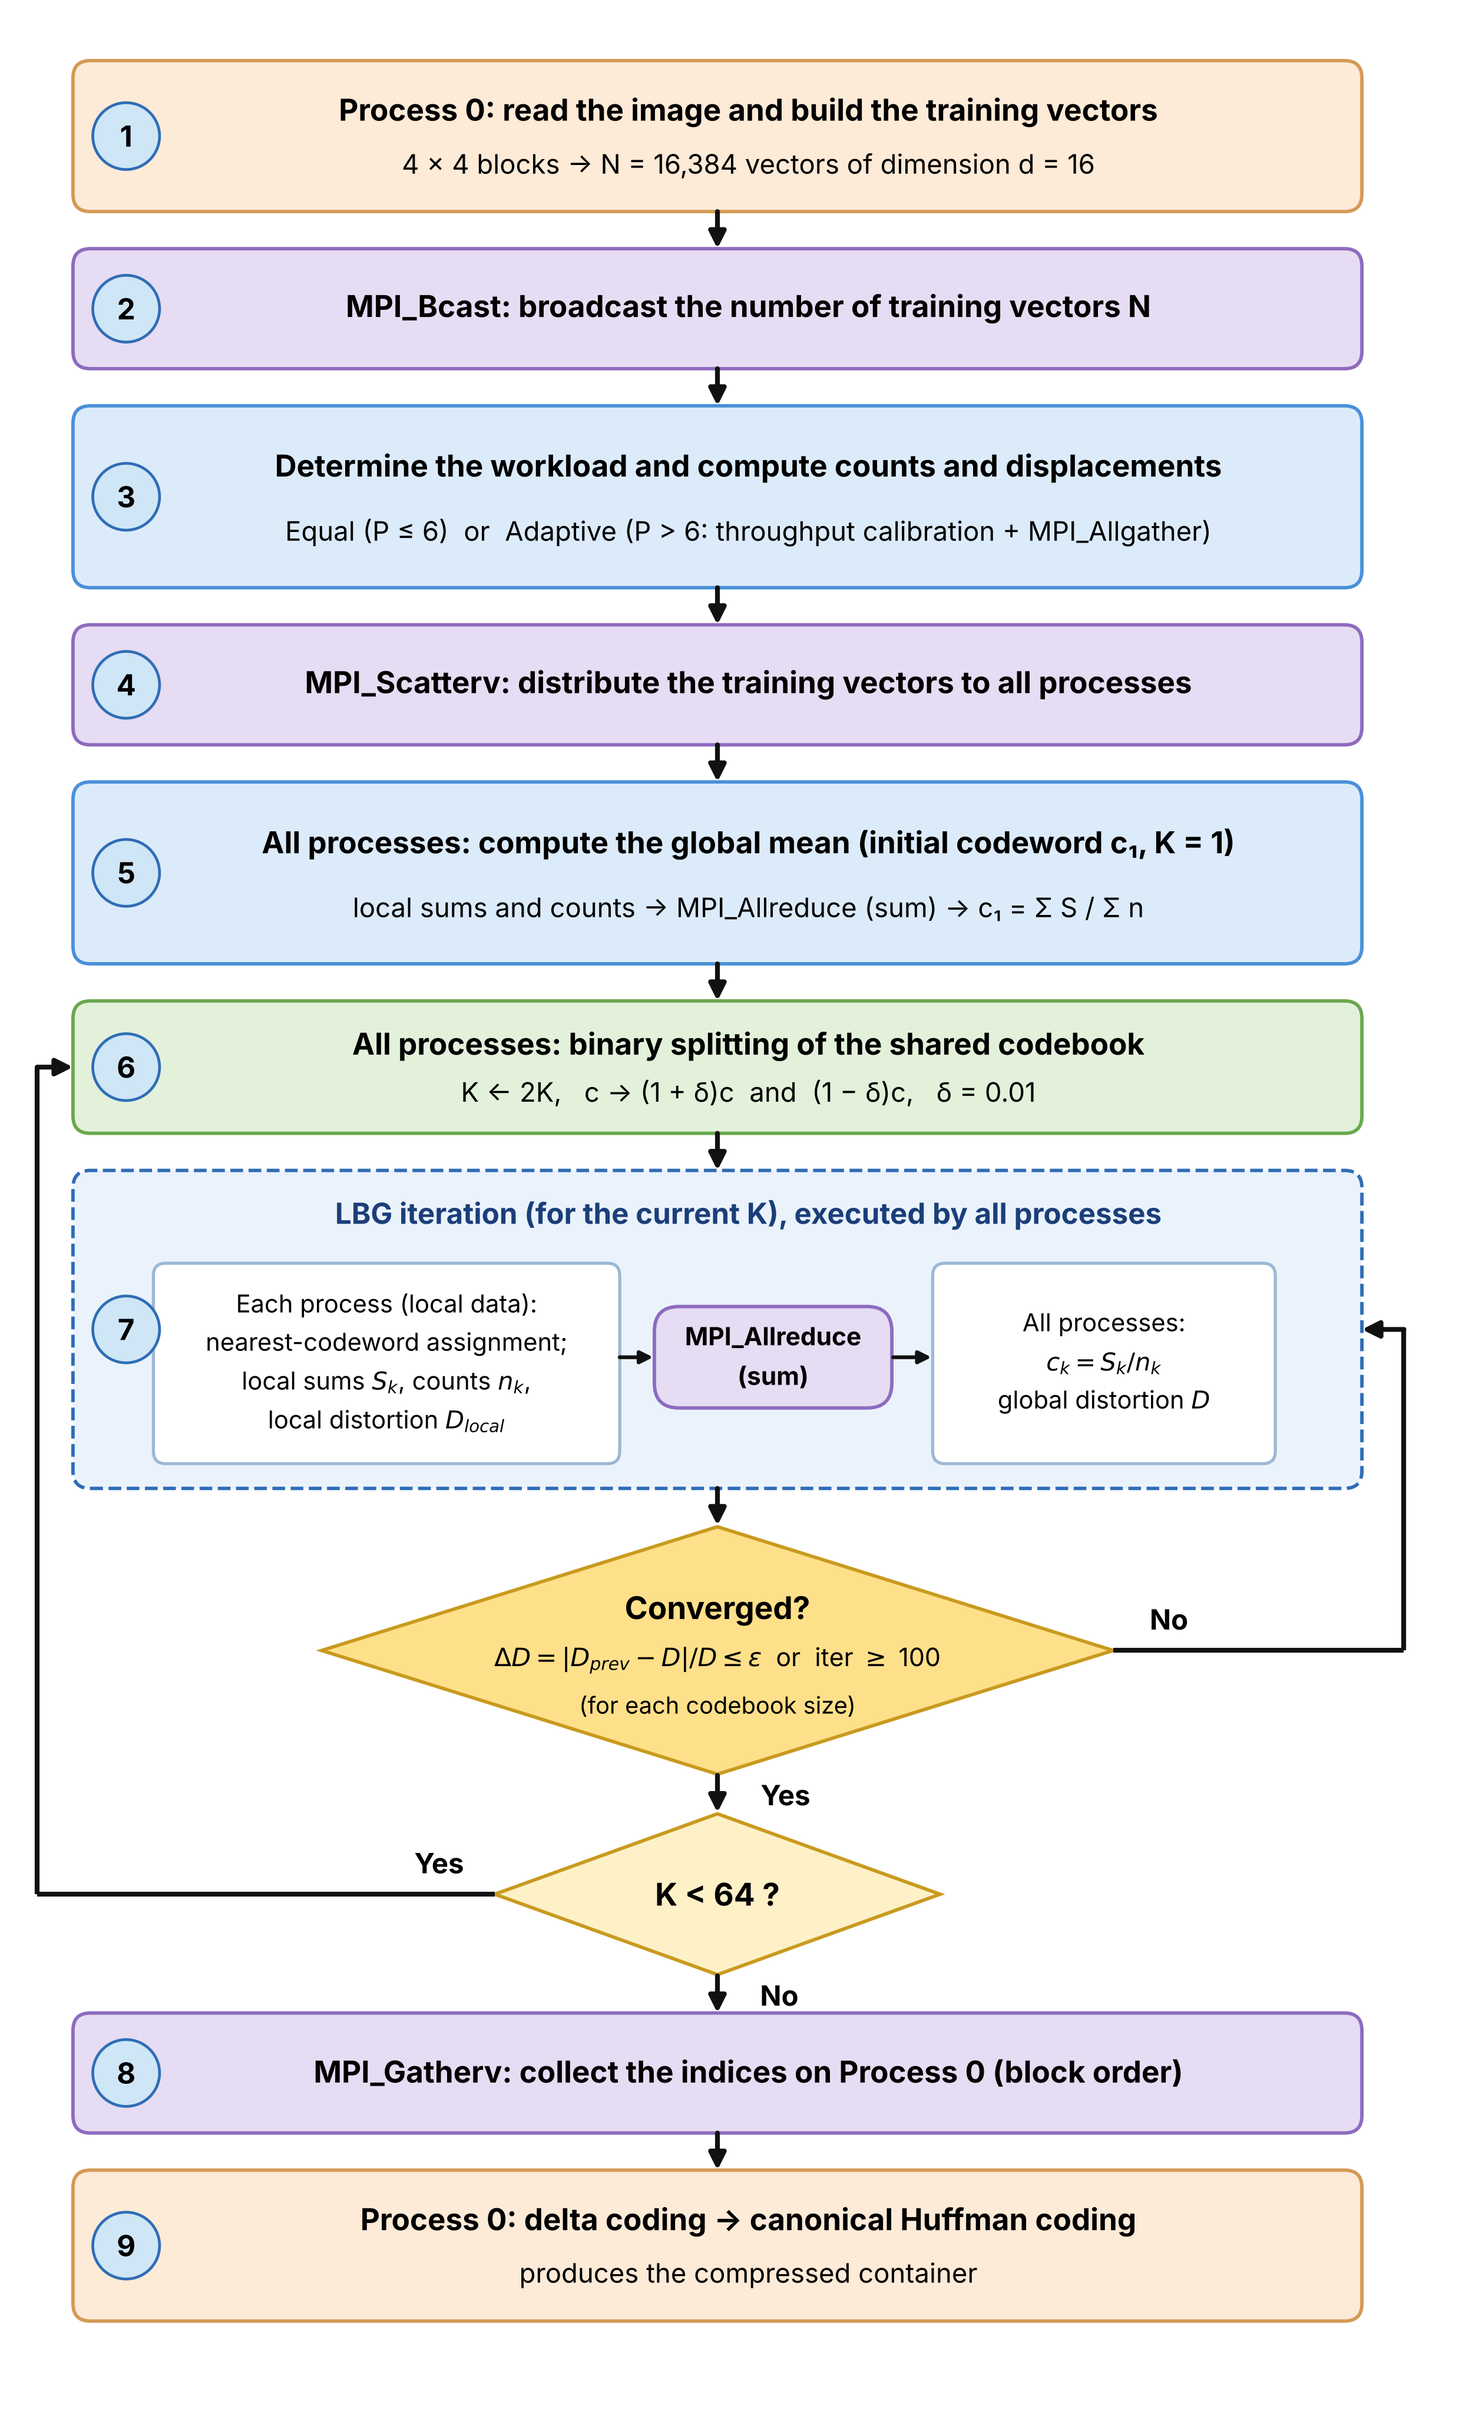
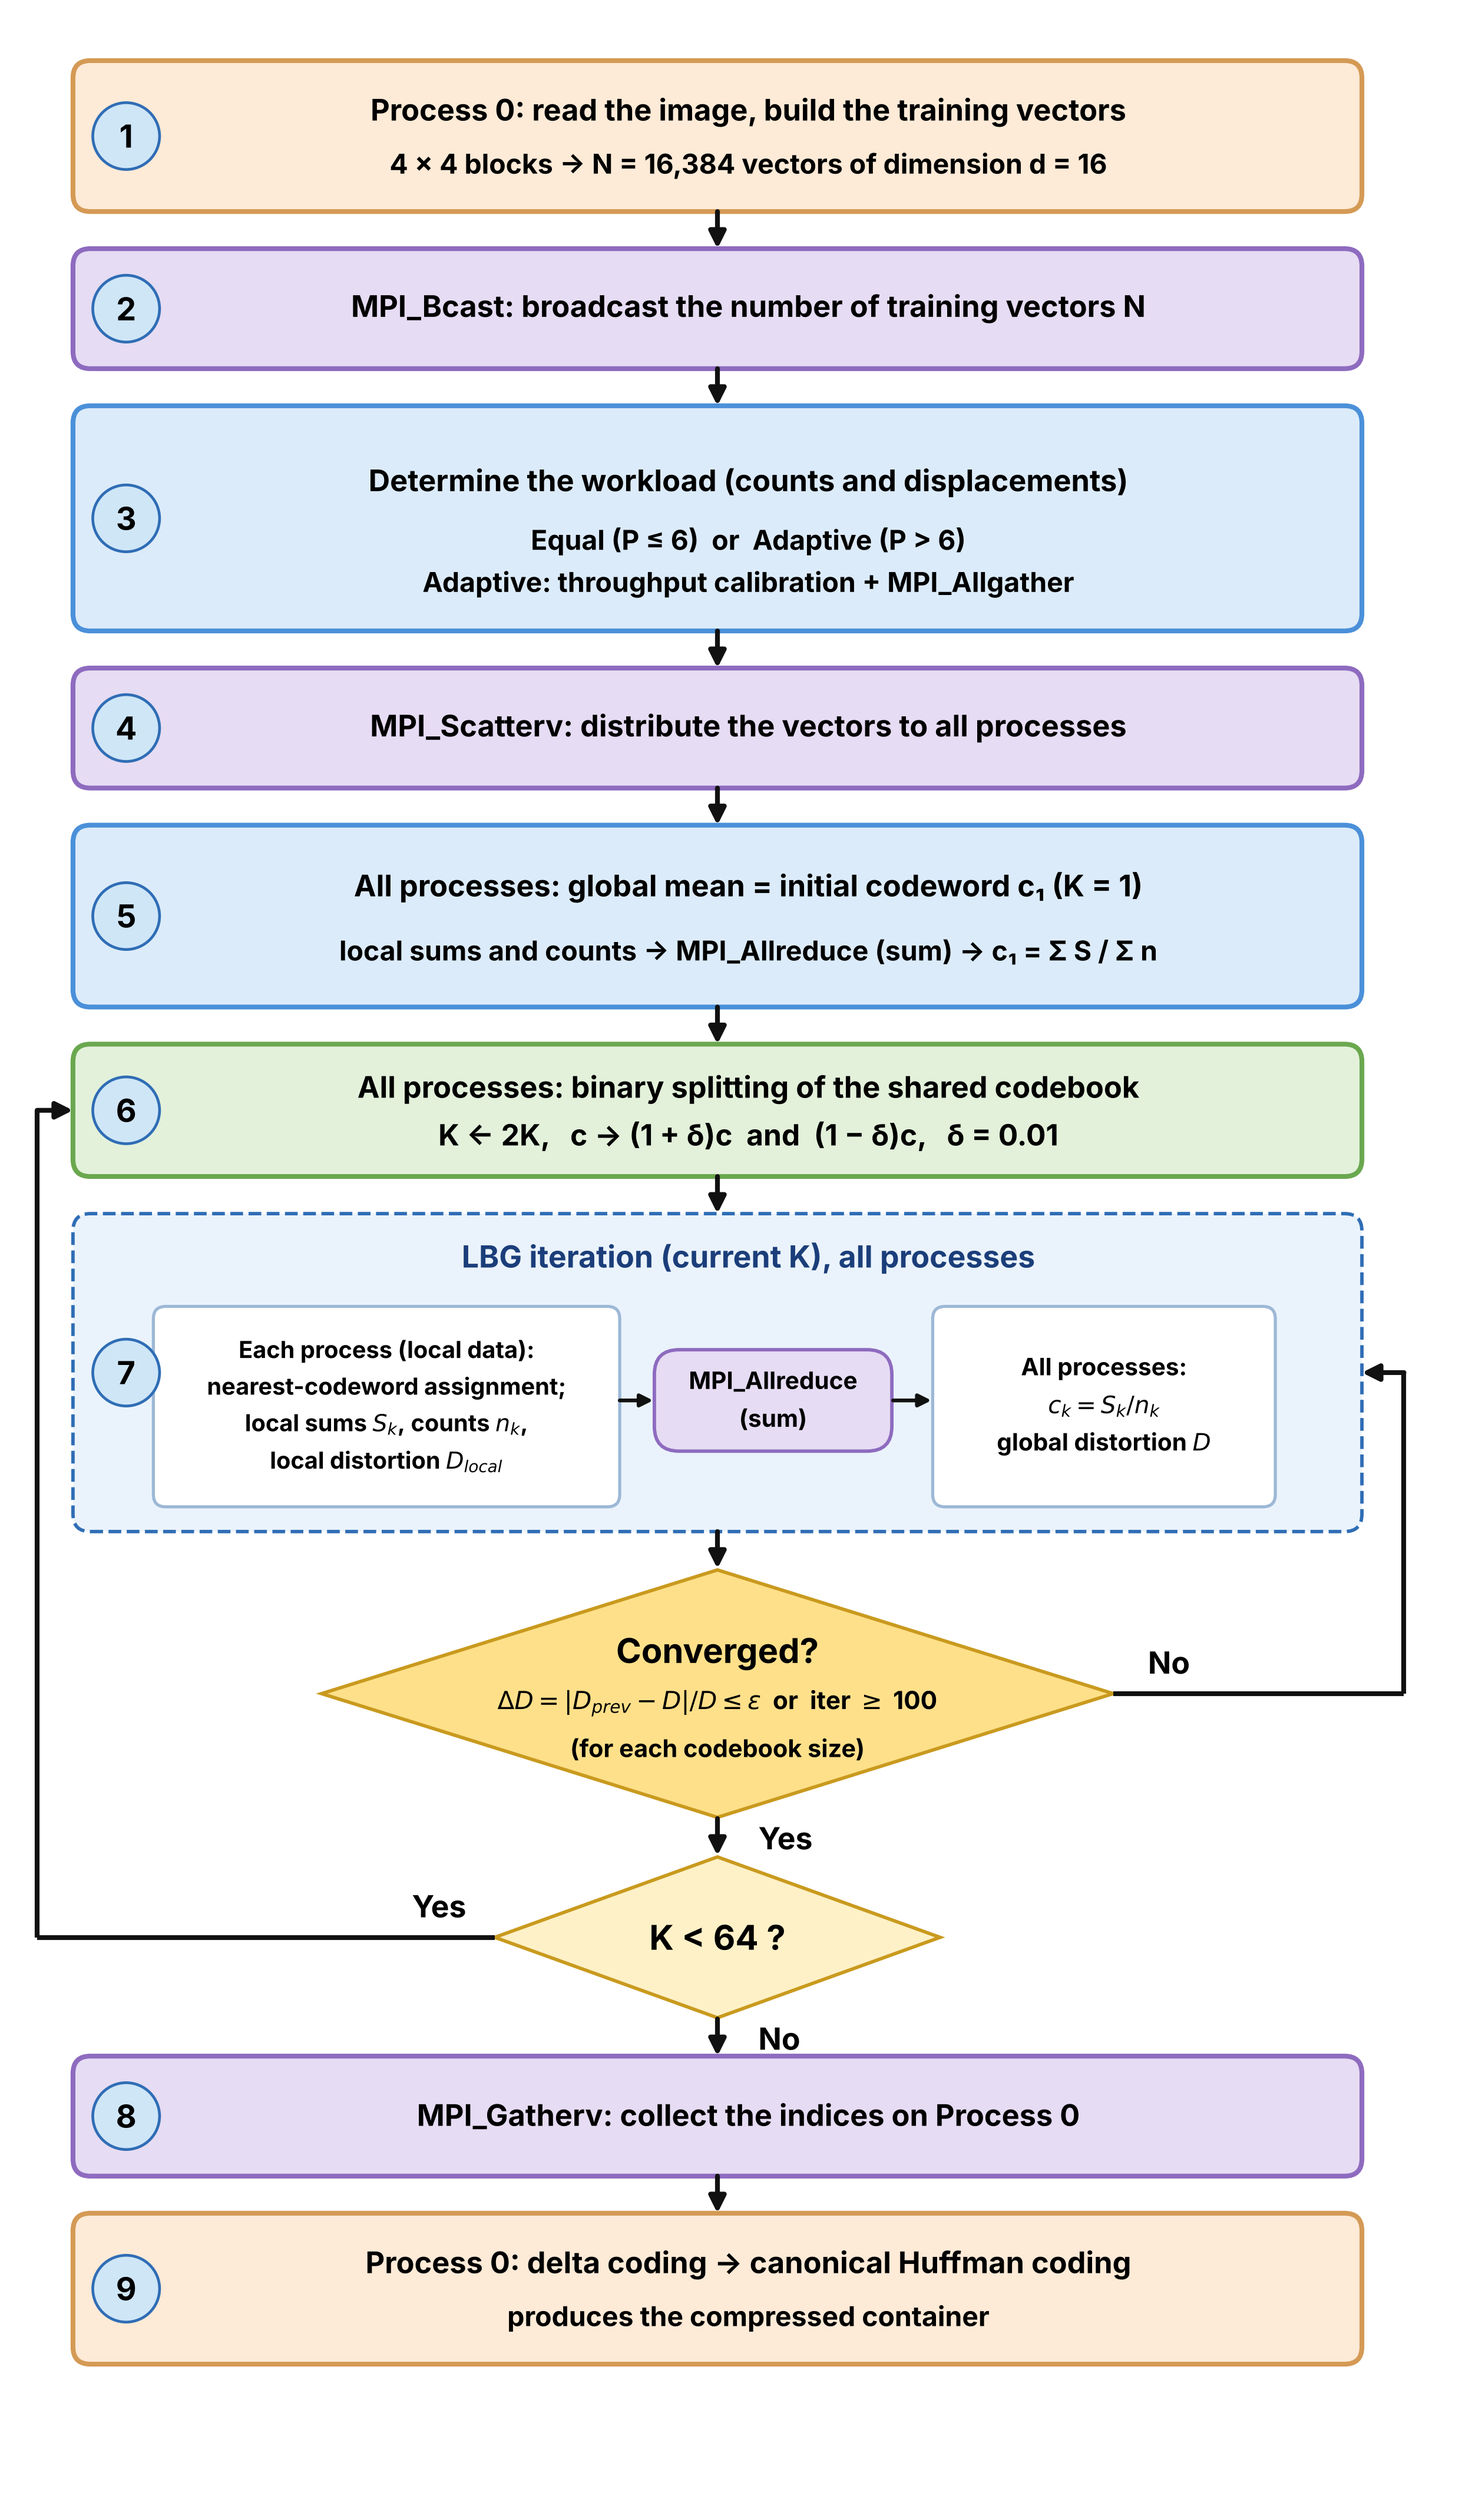
Parallel LBG workflow figure: bold text, larger sizes, thicker borders
Claude-Session: https://claude.ai/code/session_01T6gEewJ8YaCdmnsfS34RJd

diff --git a/stages/make_fig_parallel_lbg.py b/stages/make_fig_parallel_lbg.py
@@ -5,16 +5,16 @@ matplotlib.use('Agg')
 import matplotlib.pyplot as plt
 from matplotlib.patches import FancyBboxPatch, Polygon, Circle
 
-W, H = 11.9, 19.6
+W, H = 11.9, 20.2
 fig = plt.figure(figsize=(W, H)); ax = fig.add_axes([0, 0, 1, 1]); ax.set_xlim(0, W); ax.set_ylim(0, H); ax.axis('off')
 NAVY = '#14264A'
 PEACH = ('#FDEAD7', '#D49A55'); BLUE = ('#DCEBFA', '#4A90D9'); PURPLE = ('#E6DCF3', '#8E6BBF'); GREEN = ('#E3F1DB', '#6AA84F'); WHITE = ('#FFFFFF', '#9DB8D6')
 X0, X1 = 0.6, 11.0; CX = (X0 + X1) / 2
 
-def rbox(x, y, w, h, col, lw=2.0, r=0.14, ls='-', z=1):
+def rbox(x, y, w, h, col, lw=2.8, r=0.14, ls='-', z=1):
     ax.add_patch(FancyBboxPatch((x, y), w, h, boxstyle=f'round,pad=0.01,rounding_size={r}', fc=col[0], ec=col[1], lw=lw, ls=ls, zorder=z))
 def T(x, y, s, fs=13, bold=False, color='#111111', ha='center', z=6):
-    ax.text(x, y, s, fontsize=fs*1.3, fontweight='bold' if bold else 'normal', color=('#000000' if color == '#111111' else color), ha=ha, va='center', zorder=z, linespacing=1.3)
+    ax.text(x, y, s, fontsize=fs*1.42, fontweight='bold', color=('#000000' if color == '#111111' else color), ha=ha, va='center', zorder=z, linespacing=1.3)
 def arrow(x1, y1, x2, y2, lw=2.8, ms=20):
     ax.annotate('', xy=(x2, y2), xytext=(x1, y1), arrowprops=dict(arrowstyle='-|>', lw=lw, color='#111111', mutation_scale=ms, shrinkA=0, shrinkB=0), zorder=7)
 def line(xs, ys, lw=2.8):
@@ -23,8 +23,8 @@ def badge(n, y):
     ax.add_patch(Circle((X0 + 0.42, y), 0.27, fc='#CFE6F7', ec='#2F6DB5', lw=1.6, zorder=8)); T(X0 + 0.42, y, str(n), fs=13, bold=True, z=10)
 
 GAP = 0.32
-cur = 19.1
-def step(h, col, title, sub=None, n=None, tfs=13.5, sfs=12):
+cur = 19.7
+def step(h, col, title, sub=None, n=None, tfs=12.2, sfs=11.2):
     global cur
     y = cur - h
     rbox(X0, y, X1 - X0, h, col)
@@ -37,35 +37,35 @@ def step(h, col, title, sub=None, n=None, tfs=13.5, sfs=12):
     return y, h
 
 boxes = []
-boxes.append(step(1.2, PEACH, 'Process 0: read the image and build the training vectors', '4 × 4 blocks → N = 16,384 vectors of dimension d = 16', 1))
+boxes.append(step(1.2, PEACH, 'Process 0: read the image, build the training vectors', '4 × 4 blocks → N = 16,384 vectors of dimension d = 16', 1))
 boxes.append(step(0.95, PURPLE, 'MPI_Bcast: broadcast the number of training vectors N', None, 2))
-boxes.append(step(1.45, BLUE, 'Determine the workload and compute counts and displacements', 'Equal (P ≤ 6)  or  Adaptive (P > 6: throughput calibration + MPI_Allgather)', 3))
-boxes.append(step(0.95, PURPLE, 'MPI_Scatterv: distribute the training vectors to all processes', None, 4))
-boxes.append(step(1.45, BLUE, 'All processes: compute the global mean (initial codeword c₁, K = 1)', 'local sums and counts → MPI_Allreduce (sum) → c₁ = Σ S / Σ n', 5))
+boxes.append(step(1.8, BLUE, 'Determine the workload (counts and displacements)', 'Equal (P ≤ 6)  or  Adaptive (P > 6)\nAdaptive: throughput calibration + MPI_Allgather', 3))
+boxes.append(step(0.95, PURPLE, 'MPI_Scatterv: distribute the vectors to all processes', None, 4))
+boxes.append(step(1.45, BLUE, 'All processes: global mean = initial codeword c₁ (K = 1)', 'local sums and counts → MPI_Allreduce (sum) → c₁ = Σ S / Σ n', 5))
 y6, h6 = step(1.05, GREEN, 'All processes: binary splitting of the shared codebook', 'K ← 2K,   c → (1 + δ)c  and  (1 − δ)c,   δ = 0.01', 6, sfs=12)
 # loop box
 LH = 2.55; yl = cur - LH
 rbox(X0, yl, X1 - X0, LH, ('#EAF3FC', '#2F6DB5'), lw=2.0, ls='--')
 badge(7, yl + LH / 2)
-T(CX + 0.25, yl + LH - 0.35, 'LBG iteration (for the current K), executed by all processes', fs=13.0, bold=True, color='#1B3E7A')
+T(CX + 0.25, yl + LH - 0.35, 'LBG iteration (current K), all processes', fs=12.5, bold=True, color='#1B3E7A')
 rbox(1.25, yl + 0.2, 3.75, 1.6, WHITE, lw=1.8, r=0.1)
-T(3.125, yl + 1.0, 'Each process (local data):\nnearest-codeword assignment;\nlocal sums $S_k$, counts $n_k$,\nlocal distortion $D_{local}$', fs=11.0)
-rbox(5.3, yl + 0.65, 1.9, 0.8, PURPLE, lw=2.0, r=0.2); T(6.25, yl + 1.05, 'MPI_Allreduce\n(sum)', fs=11.2, bold=True)
+T(3.125, yl + 1.0, 'Each process (local data):\nnearest-codeword assignment;\nlocal sums $S_k$, counts $n_k$,\nlocal distortion $D_{local}$', fs=9.6)
+rbox(5.3, yl + 0.65, 1.9, 0.8, PURPLE, lw=2.0, r=0.2); T(6.25, yl + 1.05, 'MPI_Allreduce\n(sum)', fs=9.8, bold=True)
 rbox(7.55, yl + 0.2, 2.75, 1.6, WHITE, lw=1.8, r=0.1)
-T(8.925, yl + 1.0, 'All processes:\n$c_k = S_k / n_k$\nglobal distortion $D$', fs=11.0)
+T(8.925, yl + 1.0, 'All processes:\n$c_k = S_k / n_k$\nglobal distortion $D$', fs=9.8)
 arrow(5.01, yl + 1.05, 5.28, yl + 1.05, lw=2.2, ms=15); arrow(7.22, yl + 1.05, 7.53, yl + 1.05, lw=2.2, ms=15)
 cur = yl - GAP
 # convergence diamond
 dh1 = 2.0; dw1 = 6.4; yd1 = cur - dh1; yc1 = yd1 + dh1 / 2
 ax.add_patch(Polygon([(CX, yd1 + dh1), (CX + dw1/2, yc1), (CX, yd1), (CX - dw1/2, yc1)], closed=True, fc='#FFE08A', ec='#C99A1E', lw=2.0, zorder=2))
-T(CX, yc1 + 0.32, 'Converged?', fs=14, bold=True); T(CX, yc1 - 0.08, r'$\Delta D = |D_{prev} - D| / D \leq \varepsilon$  or  iter $\geq$ 100', fs=11.3)
-T(CX, yc1 - 0.45, '(for each codebook size)', fs=10.5)
+T(CX, yc1 + 0.32, 'Converged?', fs=14, bold=True); T(CX, yc1 - 0.08, r'$\Delta D = |D_{prev} - D| / D \leq \varepsilon$  or  iter $\geq$ 100', fs=10.2)
+T(CX, yc1 - 0.45, '(for each codebook size)', fs=10)
 cur = yd1 - GAP
 dh2 = 1.3; dw2 = 3.6; yd2 = cur - dh2; yc2 = yd2 + dh2 / 2
 ax.add_patch(Polygon([(CX, yd2 + dh2), (CX + dw2/2, yc2), (CX, yd2), (CX - dw2/2, yc2)], closed=True, fc='#FFF1C7', ec='#C99A1E', lw=2.0, zorder=2))
 T(CX, yc2, 'K < 64 ?', fs=14, bold=True)
 cur = yd2 - GAP
-yg, hg = step(0.95, PURPLE, 'MPI_Gatherv: collect the indices on Process 0 (block order)', None, 8)
+yg, hg = step(0.95, PURPLE, 'MPI_Gatherv: collect the indices on Process 0', None, 8)
 yp, hp = step(1.2, PEACH, 'Process 0: delta coding → canonical Huffman coding', 'produces the compressed container', 9)
 
 # arrows between boxes (vertical)
